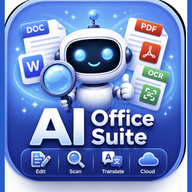
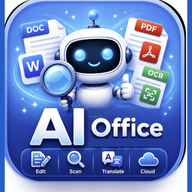
AIオフィス: アプリ名を AIoffice に、アイコンから「Suite」を削除

Changed region(s): [[0.4688, 0.5312, 0.875, 0.7812]]

diff --git a/AXIA_AI_Office.html b/AXIA_AI_Office.html
@@ -3,16 +3,16 @@
 <head>
 <meta charset="UTF-8">
 <meta name="viewport" content="width=device-width, initial-scale=1.0, maximum-scale=1.0, user-scalable=no, viewport-fit=cover">
-<title>AXIA AI社員オフィス 3D</title>
+<title>AIoffice</title>
 <!-- スマホのホーム画面アプリ化（PWA） -->
-<link rel="manifest" href="./office.webmanifest">
+<link rel="manifest" href="./office.webmanifest?v=2">
 <link rel="icon" type="image/png" sizes="192x192" href="./office-icon-192.png">
-<link rel="apple-touch-icon" sizes="180x180" href="./office-icon-180.png">
+<link rel="apple-touch-icon" sizes="180x180" href="./office-icon-180.png?v=2">
 <meta name="theme-color" content="#2b2440">
 <meta name="mobile-web-app-capable" content="yes">
 <meta name="apple-mobile-web-app-capable" content="yes">
 <meta name="apple-mobile-web-app-status-bar-style" content="black-translucent">
-<meta name="apple-mobile-web-app-title" content="AI Office">
+<meta name="apple-mobile-web-app-title" content="AIoffice">
 <link rel="preconnect" href="https://fonts.googleapis.com">
 <link href="https://fonts.googleapis.com/css2?family=M+PLUS+Rounded+1c:wght@400;700;800&family=Zen+Maru+Gothic:wght@400;500;700&family=DM+Mono:wght@400&display=swap" rel="stylesheet">
 <script src="https://cdn.jsdelivr.net/npm/@supabase/supabase-js@2"></script>

diff --git a/office-sw.js b/office-sw.js
@@ -1,7 +1,7 @@
 /* AXIA AI Office — 最小のService Worker
    ・インストール（ホーム画面追加）を成立させるのが目的
    ・HTMLは常にネット優先（古い画面が残らんように）。落ちたときだけキャッシュ */
-const CACHE = 'axia-office-v1';
+const CACHE = 'axia-office-v2';
 const SHELL = ['./AXIA_AI_Office.html', './office.webmanifest', './office-icon-192.png', './office-icon-512.png'];
 
 self.addEventListener('install', e => {
